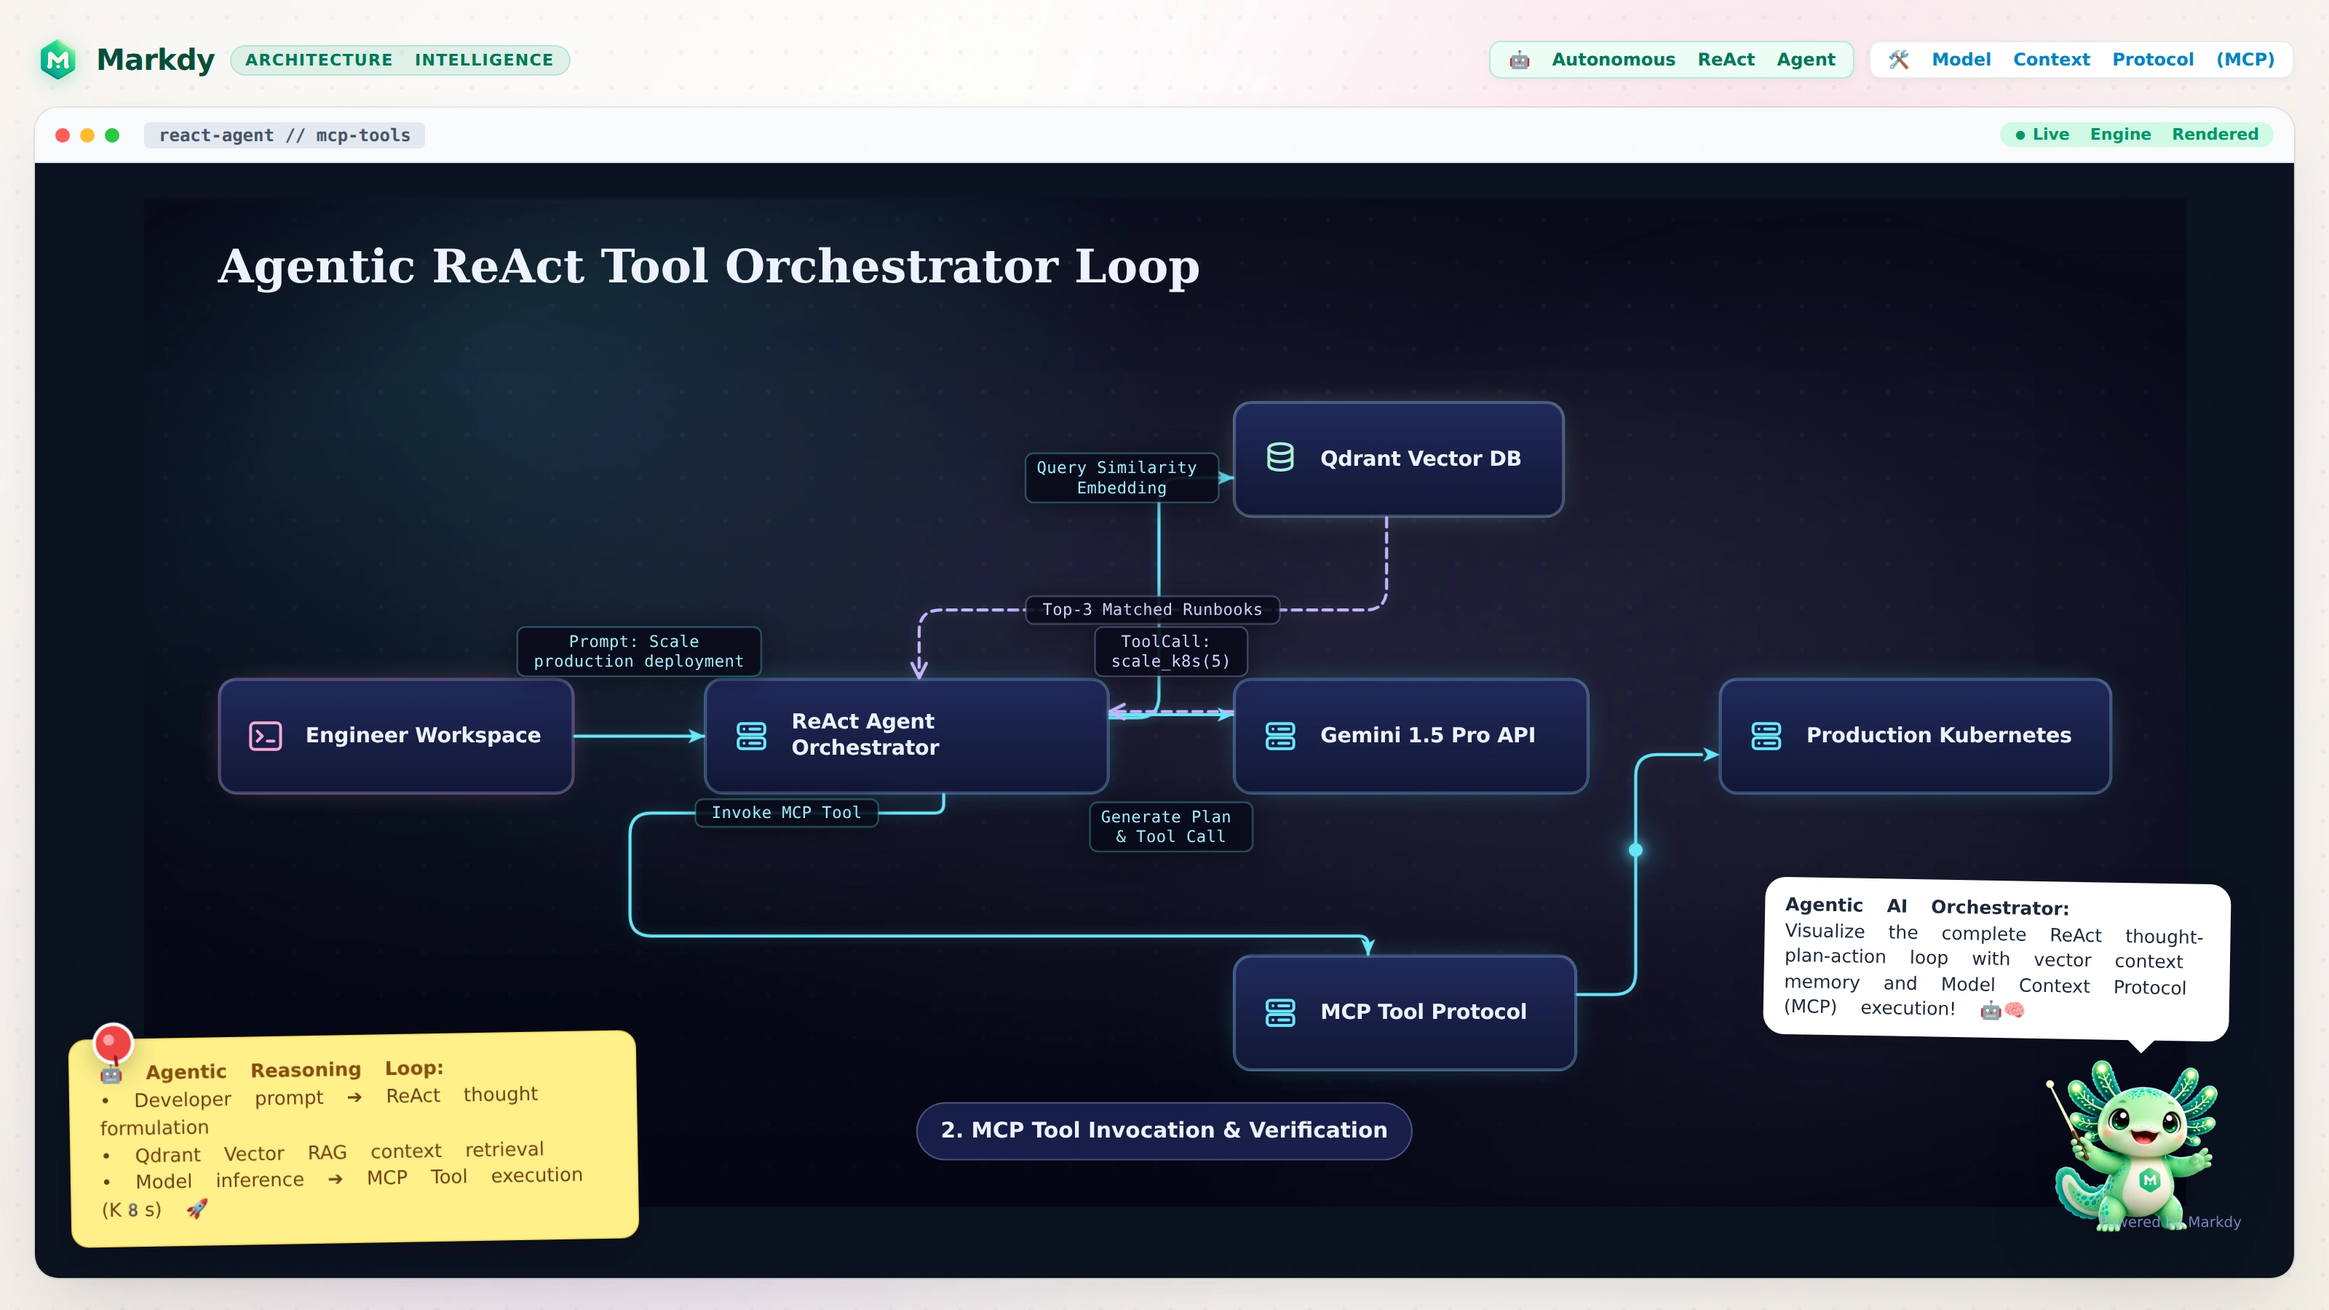
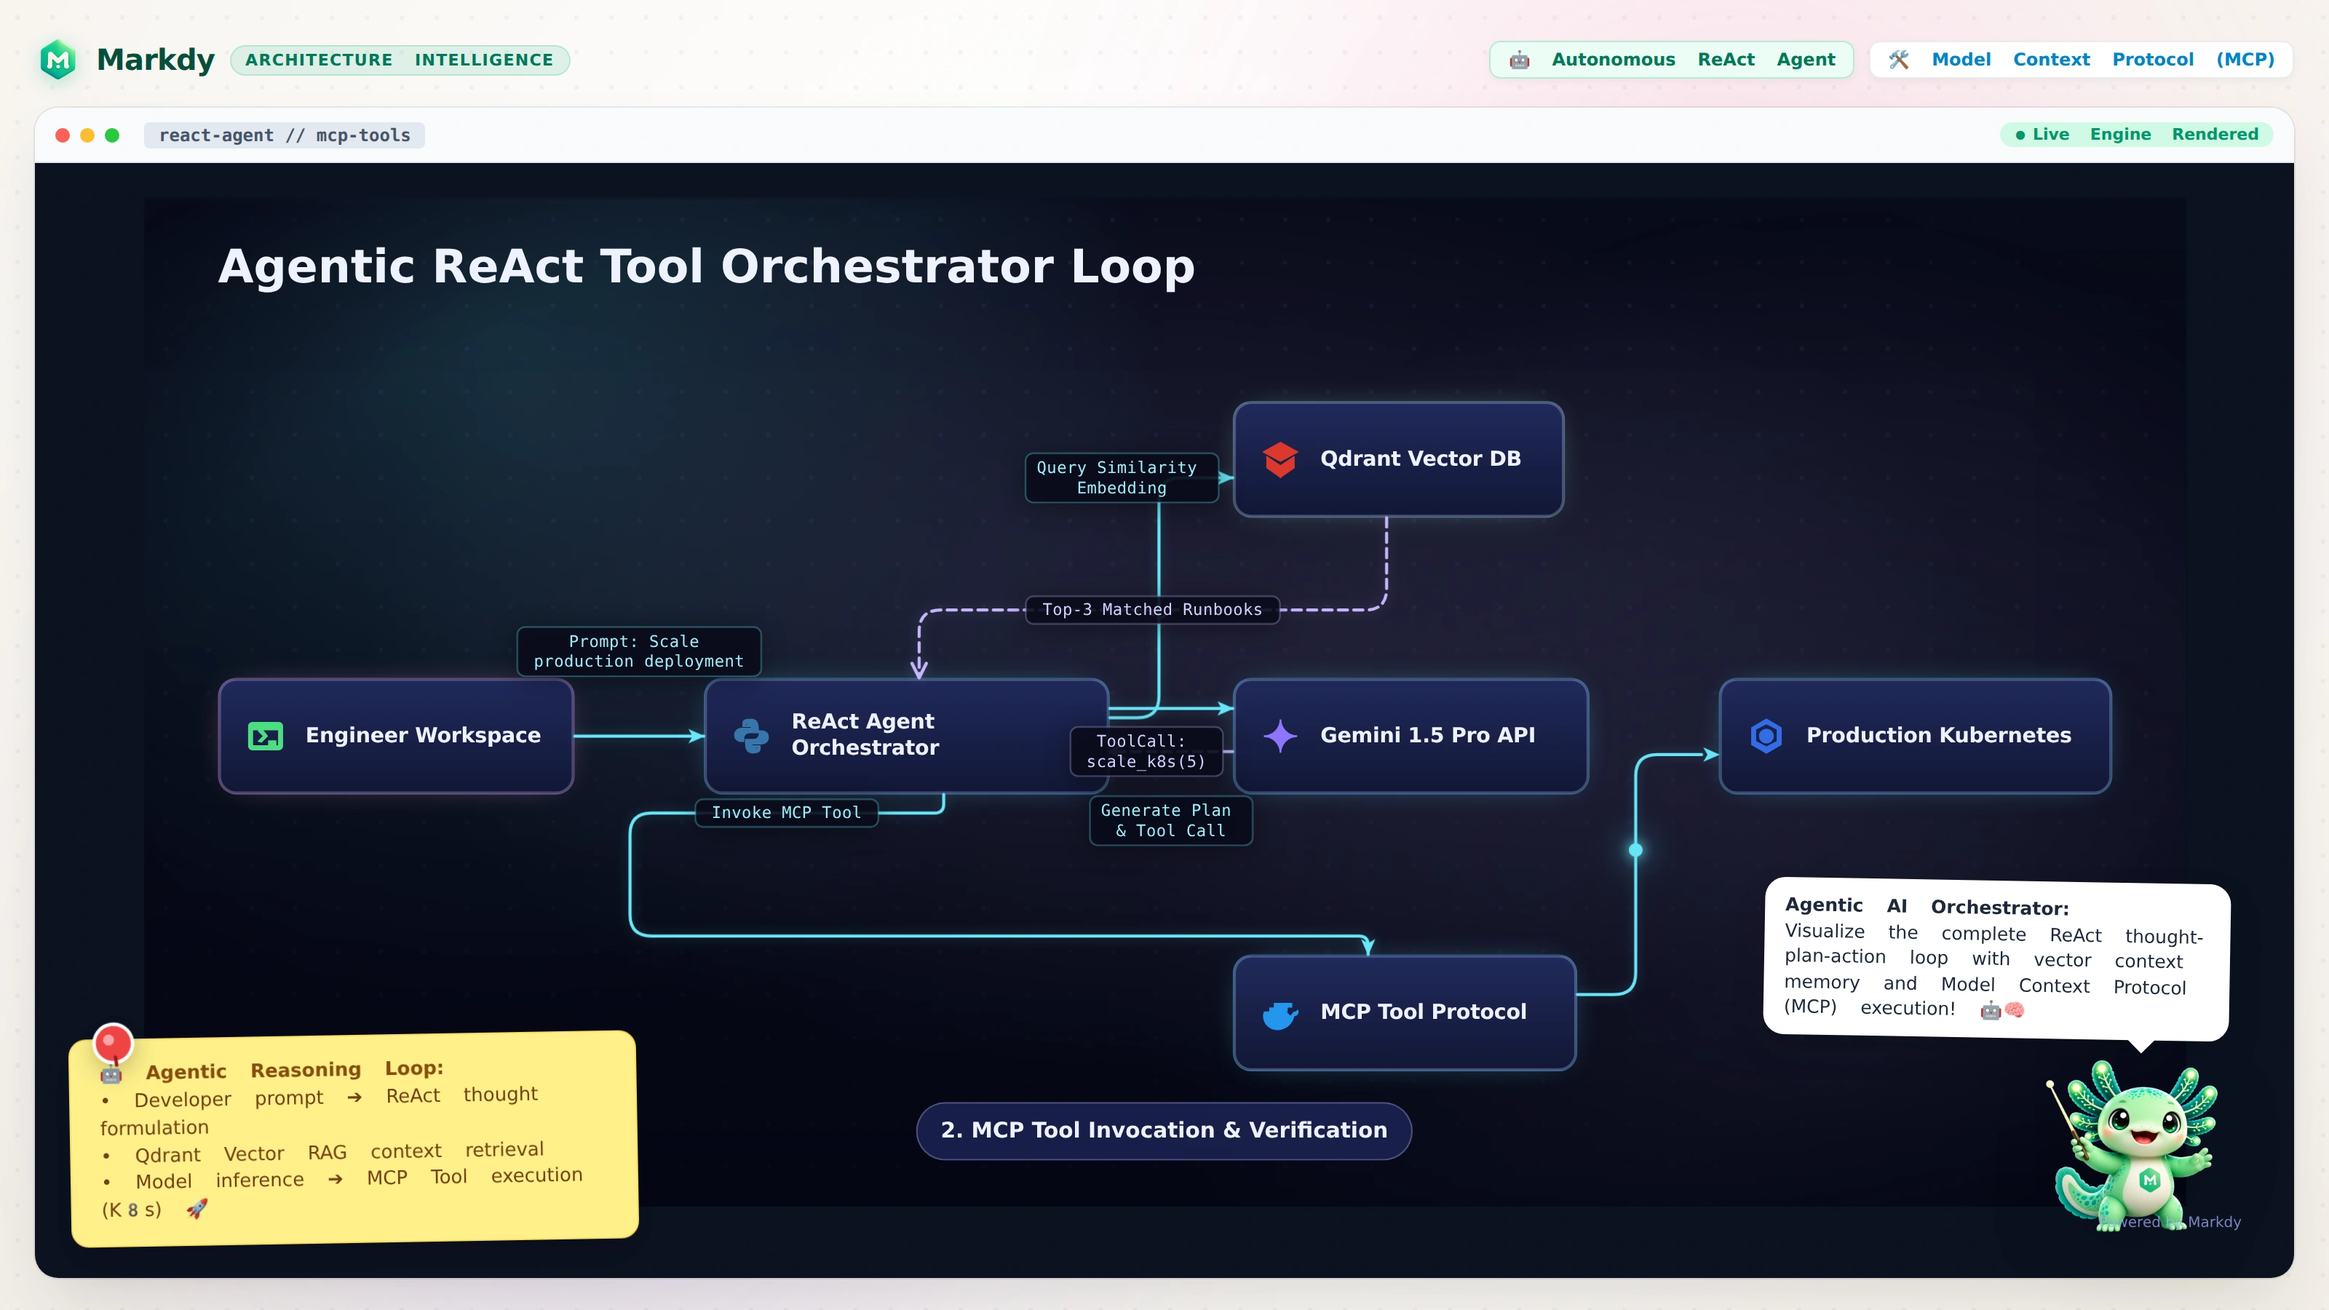
fix(renderer,router,symbols): eradicate visual collisions, wire vector symbols & fix text typography
- Unified port attachments in router allocatePortLanes for collision-free bidirectional highways
- Connected resolveVectorSymbol to DOM and SVG exporters to render native badges (K8s, Postgres, Redis, Gemini, etc.)
- Tracked labelObstacles in edges and svg-exporter to eradicate text-on-text label collisions
- Enforced strict top/bottom corridor separation between forward and return routes
- Modernized nebula theme title typography to clean sans-serif
- Fixed emoji font metrics in evidence cards and regenerated all 6 showcase cards

diff --git a/packages/renderer-dom/src/export/svg-exporter.ts b/packages/renderer-dom/src/export/svg-exporter.ts
@@ -10,6 +10,7 @@
 import {
   parseAndCompile,
   resolveTheme,
+  resolveVectorSymbol,
   type EdgeKind,
   type GroupBoundary,
   type PositionedNode,
@@ -29,6 +30,7 @@ import {
 } from "../geometry/path.js";
 import { boxRect, inflateRect, type Point, type Rect } from "../geometry/rect.js";
 import { ICON_REGISTRY, iconKeyForNode, type IconSpec } from "../nodes.js";
+import { nextEdgeLane } from "../edges.js";
 
 export interface SvgExportOptions {
   includeThemeStyles?: boolean;
@@ -502,6 +504,7 @@ export function renderPureVectorSvg(plan: RenderPlan, options: SvgExportOptions 
   if (plan.diagramType !== "sequence" && plan.edges && plan.edges.length > 0) {
     svg += `  <!-- Edge Connections -->\n  <g class="markdy-edges-layer">\n`;
     const nodeMap = new Map(plan.nodes.map((n) => [n.id, n]));
+    const laneByPair = new Map<string, number>();
 
     plan.edges.forEach((edge, index) => {
       const from = nodeMap.get(edge.from);
@@ -515,9 +518,10 @@ export function renderPureVectorSvg(plan: RenderPlan, options: SvgExportOptions 
       const color = theme.edges?.[edge.kind] || accent;
       const style = EDGE_STYLES[edge.kind] || EDGE_STYLES.request;
       const isSelfLoop = from.id === to.id;
+      const lane = nextEdgeLane(laneByPair, from, to);
       const points = isSelfLoop
         ? dedupePoints(selfLoopPath(from, bounds))
-        : dedupePoints(routeEdgePoints(from, to, routeObstacles, bounds, index));
+        : dedupePoints(routeEdgePoints(from, to, routeObstacles, bounds, lane));
 
       const d = toPathD(points, 14, existingPaths);
       existingPaths.push(points);
@@ -554,6 +558,7 @@ export function renderPureVectorSvg(plan: RenderPlan, options: SvgExportOptions 
         const boxHeight = lines.length === 1 ? 18 : lines.length * lineHeight + 6;
 
         const placement = placeFlowLabel(points, textWidth, labelObstacles, bounds, boxHeight);
+        labelObstacles.push(inflateRect(placement.rect, 4));
         const padX = 6;
         const halfW = textWidth / 2;
         const labelX = placement.x - halfW - padX;
@@ -665,10 +670,19 @@ export function renderPureVectorSvg(plan: RenderPlan, options: SvgExportOptions 
       const iconX = (node.width - circleIconSize) / 2;
       const iconY = node.height / 2 - 20;
 
+      const circleSymbolKey = typeof node.props?.icon === "string" ? node.props.icon : typeof node.props?.symbol === "string" ? node.props.symbol : undefined;
+      const circleVectorSymbol = circleSymbolKey ? resolveVectorSymbol(circleSymbolKey) : null;
+
       const rawImage = node.props?.image ?? node.props?.logo;
       if (typeof rawImage === "string" && rawImage.length > 0) {
         svg += `      <!-- Centered Custom Image -->
       <image href="${escapeXml(rawImage)}" x="${iconX}" y="${iconY}" width="${circleIconSize}" height="${circleIconSize}" preserveAspectRatio="xMidYMid meet"/>\n`;
+      } else if (circleVectorSymbol) {
+        const symColor = circleVectorSymbol.brandColor || roleColor;
+        svg += `      <!-- Centered Vector Symbol: ${escapeXml(circleVectorSymbol.name)} -->
+      <g transform="translate(${iconX}, ${iconY}) scale(${circleIconSize / 24})" fill="currentColor" color="${symColor}">
+        ${circleVectorSymbol.svgPaths}
+      </g>\n`;
       } else {
         svg += `      <!-- Centered Icon Glyph -->
       <g transform="translate(${iconX}, ${iconY}) scale(${circleIconSize / 24})" fill="none" stroke="${roleColor}" stroke-width="1.85" stroke-linecap="round" stroke-linejoin="round">
@@ -696,10 +710,19 @@ export function renderPureVectorSvg(plan: RenderPlan, options: SvgExportOptions 
       const iconX = 16;
       const iconY = (node.height - iconSize) / 2;
 
+      const cardSymbolKey = typeof node.props?.icon === "string" ? node.props.icon : typeof node.props?.symbol === "string" ? node.props.symbol : undefined;
+      const cardVectorSymbol = cardSymbolKey ? resolveVectorSymbol(cardSymbolKey) : null;
+
       const rawImage = node.props?.image ?? node.props?.logo;
       if (typeof rawImage === "string" && rawImage.length > 0) {
         svg += `      <!-- Node Custom Image -->
       <image href="${escapeXml(rawImage)}" x="${iconX}" y="${iconY}" width="${iconSize}" height="${iconSize}" preserveAspectRatio="xMidYMid meet"/>\n`;
+      } else if (cardVectorSymbol) {
+        const symColor = cardVectorSymbol.brandColor || roleColor;
+        svg += `      <!-- Native Vector Symbol: ${escapeXml(cardVectorSymbol.name)} -->
+      <g transform="translate(${iconX}, ${iconY}) scale(${iconSize / 24})" fill="currentColor" color="${symColor}">
+        ${cardVectorSymbol.svgPaths}
+      </g>\n`;
       } else {
         // Frameless Icon Glyph
         svg += `      <!-- Frameless Icon Glyph -->

diff --git a/packages/core/src/router.ts b/packages/core/src/router.ts
@@ -302,7 +302,8 @@ export function routeOrthogonalEdge(
 
 /**
  * Dynamic Port Multiplexer:
- * Allocates balanced port lanes for multiple edges attaching to the same node boundary.
+ * Allocates balanced, collision-free port lanes for multiple edges attaching to the same node boundary.
+ * Seamlessly handles multi-edge fan-in/fan-out and bidirectional request/response pairs without overlapping.
  */
 export function allocatePortLanes<T extends { from: string; to: string; id?: string }>(
   edges: T[],
@@ -310,10 +311,14 @@ export function allocatePortLanes<T extends { from: string; to: string; id?: str
 ): Map<T, { sourceLane?: PortLane; targetLane?: PortLane }> {
   const result = new Map<T, { sourceLane?: PortLane; targetLane?: PortLane }>();
 
-  // Group outgoing edges by (fromNodeId, sourcePort)
-  const outGroups = new Map<string, { edge: T; targetCenterY: number; targetCenterX: number }[]>();
-  // Group incoming edges by (toNodeId, targetPort)
-  const inGroups = new Map<string, { edge: T; sourceCenterY: number; sourceCenterX: number }[]>();
+  // Group ALL edge connections (source and target attachments) by (nodeId:port)
+  type PortAttachment = {
+    edge: T;
+    role: "source" | "target";
+    otherCenterY: number;
+    otherCenterX: number;
+  };
+  const portGroups = new Map<string, PortAttachment[]>();
 
   for (const edge of edges) {
     if (edge.from === edge.to) continue;
@@ -328,31 +333,58 @@ export function allocatePortLanes<T extends { from: string; to: string; id?: str
     const tgtCenter = { x: tBox.x + tBox.width / 2, y: tBox.y + tBox.height / 2 };
     const srcCenter = { x: sBox.x + sBox.width / 2, y: sBox.y + sBox.height / 2 };
 
-    if (!outGroups.has(sKey)) outGroups.set(sKey, []);
-    outGroups.get(sKey)!.push({ edge, targetCenterY: tgtCenter.y, targetCenterX: tgtCenter.x });
+    if (!portGroups.has(sKey)) portGroups.set(sKey, []);
+    portGroups.get(sKey)!.push({
+      edge,
+      role: "source",
+      otherCenterY: tgtCenter.y,
+      otherCenterX: tgtCenter.x,
+    });
 
-    if (!inGroups.has(tKey)) inGroups.set(tKey, []);
-    inGroups.get(tKey)!.push({ edge, sourceCenterY: srcCenter.y, sourceCenterX: srcCenter.x });
-  }
-
-  // Sort and assign lanes for outgoing ports
-  for (const [key, list] of outGroups.entries()) {
-    const isVertical = key.endsWith(":left") || key.endsWith(":right");
-    list.sort((a, b) => (isVertical ? a.targetCenterY - b.targetCenterY : a.targetCenterX - b.targetCenterX));
-    list.forEach((item, index) => {
-      const existing = result.get(item.edge) || {};
-      existing.sourceLane = { index, total: list.length };
-      result.set(item.edge, existing);
+    if (!portGroups.has(tKey)) portGroups.set(tKey, []);
+    portGroups.get(tKey)!.push({
+      edge,
+      role: "target",
+      otherCenterY: srcCenter.y,
+      otherCenterX: srcCenter.x,
     });
   }
 
-  // Sort and assign lanes for incoming ports
-  for (const [key, list] of inGroups.entries()) {
+  // Sort attachments and assign balanced lanes across each port
+  for (const [key, list] of portGroups.entries()) {
+    if (list.length <= 1) continue;
+
     const isVertical = key.endsWith(":left") || key.endsWith(":right");
-    list.sort((a, b) => (isVertical ? a.sourceCenterY - b.sourceCenterY : a.sourceCenterX - b.sourceCenterX));
+    list.sort((a, b) => {
+      if (isVertical) {
+        if (Math.abs(a.otherCenterY - b.otherCenterY) > 1) {
+          return a.otherCenterY - b.otherCenterY;
+        }
+      } else {
+        if (Math.abs(a.otherCenterX - b.otherCenterX) > 1) {
+          return a.otherCenterX - b.otherCenterX;
+        }
+      }
+      // Canonical tie-breaker for bidirectional pairs: keep forward and return lanes parallel
+      const aMin = a.edge.from < a.edge.to ? a.edge.from : a.edge.to;
+      const aMax = a.edge.from < a.edge.to ? a.edge.to : a.edge.from;
+      const bMin = b.edge.from < b.edge.to ? b.edge.from : b.edge.to;
+      const bMax = b.edge.from < b.edge.to ? b.edge.to : b.edge.from;
+      if (aMin !== bMin || aMax !== bMax) {
+        return (a.edge.id || "").localeCompare(b.edge.id || "");
+      }
+      const aDir = a.edge.from < a.edge.to ? 0 : 1;
+      const bDir = b.edge.from < b.edge.to ? 0 : 1;
+      return aDir - bDir;
+    });
+
     list.forEach((item, index) => {
       const existing = result.get(item.edge) || {};
-      existing.targetLane = { index, total: list.length };
+      if (item.role === "source") {
+        existing.sourceLane = { index, total: list.length };
+      } else {
+        existing.targetLane = { index, total: list.length };
+      }
       result.set(item.edge, existing);
     });
   }

diff --git a/packages/renderer-dom/src/nodes.ts b/packages/renderer-dom/src/nodes.ts
@@ -1,4 +1,4 @@
-import type { PositionedNode, ThemeTokens } from "@markdy/core";
+import { resolveVectorSymbol, type PositionedNode, type ThemeTokens } from "@markdy/core";
 
 const STYLE_ID = "markdy-diagram-node-styles";
 
@@ -685,6 +685,7 @@ export const ICON_REGISTRY: Readonly<Record<string, IconSpec>> = Object.freeze(I
 export function iconKeyForNode(node: PositionedNode): string {
   const override = typeof node.props?.icon === "string" ? node.props.icon.toLowerCase() : undefined;
   if (override && ICONS[override]) return override;
+  if (override && resolveVectorSymbol(override)) return override;
   if (node.kind === "api_gateway" || node.kind === "gateway" || node.kind === "load_balancer" || node.kind === "ingress") return "gateway";
   if (node.kind === "db" || node.kind === "database" || node.kind === "sql" || node.kind === "nosql" || node.kind === "warehouse") return "database";
   if (node.kind === "bucket" || node.kind === "object_store" || node.kind === "blob" || node.kind === "volume" || node.kind === "disk") return "storage";
@@ -764,6 +765,22 @@ function createNodeMediaEl(doc: Document, node: PositionedNode, assets?: Record<
       appendGlyph(doc, wrap, ICONS[iconKeyForNode(node)] ?? ICONS.service);
     });
     wrap.appendChild(img);
+    return wrap;
+  }
+
+  const symbolKey = typeof node.props?.icon === "string" ? node.props.icon : typeof node.props?.symbol === "string" ? node.props.symbol : undefined;
+  const vectorSymbol = symbolKey ? resolveVectorSymbol(symbolKey) : null;
+  if (vectorSymbol) {
+    wrap.dataset.vectorSymbol = vectorSymbol.name;
+    const svg = doc.createElementNS("http://www.w3.org/2000/svg", "svg");
+    svg.setAttribute("viewBox", vectorSymbol.viewBox);
+    svg.setAttribute("width", "26");
+    svg.setAttribute("height", "26");
+    if (vectorSymbol.brandColor) {
+      svg.style.color = vectorSymbol.brandColor;
+    }
+    svg.innerHTML = vectorSymbol.svgPaths;
+    wrap.appendChild(svg);
     return wrap;
   }
 

diff --git a/packages/renderer-dom/src/geometry/path.ts b/packages/renderer-dom/src/geometry/path.ts
@@ -642,7 +642,7 @@ export function routeOrthogonal(
       sY = clamp(sourceCenter.y + dirSign * 12, sourceRect.y1 + 10, sourceRect.y2 - 10);
       tY = clamp(targetCenter.y - dirSign * 12, targetRect.y1 + 10, targetRect.y2 - 10);
     } else {
-      const fwdShift = lane > 0 ? (lane % 2 === 1 ? 14 : -14) : 0;
+      const fwdShift = lane > 0 ? (lane % 2 === 1 ? -10 : -18) : 0;
       sY = clamp(sourceCenter.y + fwdShift, sourceRect.y1 + 10, sourceRect.y2 - 10);
       tY = clamp(targetCenter.y + fwdShift, targetRect.y1 + 10, targetRect.y2 - 10);
     }
@@ -716,7 +716,7 @@ export function routeOrthogonal(
       sY = clamp(sourceCenter.y + dirSign * 12, sourceRect.y1 + 10, sourceRect.y2 - 10);
       tY = clamp(targetCenter.y - dirSign * 12, targetRect.y1 + 10, targetRect.y2 - 10);
     } else {
-      const retShift = lane > 0 ? (lane % 2 === 1 ? -16 : 16) : 14;
+      const retShift = lane > 0 ? (lane % 2 === 1 ? 10 : 18) : 10;
       sY = clamp(sourceCenter.y + retShift, sourceRect.y1 + 10, sourceRect.y2 - 10);
       tY = clamp(targetCenter.y + retShift, targetRect.y1 + 10, targetRect.y2 - 10);
     }

diff --git a/packages/core/tests/router-dynamic-ports.test.ts b/packages/core/tests/router-dynamic-ports.test.ts
@@ -69,4 +69,26 @@ describe("Router & Dynamic Port Multiplexer", () => {
     }
     expect(routed.svgPathData).toContain("Q");
   });
+
+  it("allocates distinct parallel lanes for bidirectional request/response pairs", () => {
+    const edges = [
+      { from: "a", to: "b", id: "req" },
+      { from: "b", to: "a", id: "res" },
+    ];
+    const boxes = { a: boxA, b: boxB };
+    const laneMap = allocatePortLanes(edges, boxes);
+
+    const reqLanes = laneMap.get(edges[0])!;
+    const resLanes = laneMap.get(edges[1])!;
+
+    expect(reqLanes.sourceLane?.total).toBe(2);
+    expect(resLanes.targetLane?.total).toBe(2);
+    // Request forward and response return must have different indices (parallel, no collision)
+    expect(reqLanes.sourceLane?.index).not.toBe(resLanes.targetLane?.index);
+    expect(reqLanes.targetLane?.index).not.toBe(resLanes.sourceLane?.index);
+
+    const reqStart = getBoxPortPosition(boxA, "right", reqLanes.sourceLane);
+    const resEnd = getBoxPortPosition(boxA, "right", resLanes.targetLane);
+    expect(reqStart.y).not.toBe(resEnd.y);
+  });
 });

diff --git a/packages/renderer-dom/src/edges.ts b/packages/renderer-dom/src/edges.ts
@@ -370,6 +370,7 @@ export function createEdgeRuntime(
 
     const placement = placeFlowLabel(points, textWidth, labelObstacles, bounds, boxHeight);
     labelRect = placement.rect;
+    labelObstacles.push(inflateRect(labelRect, 4));
     const plate = document.createElementNS("http://www.w3.org/2000/svg", "rect");
     const padX = 6;
     const halfW = textWidth / 2;
@@ -479,7 +480,7 @@ function translucentColor(color: string, alpha = "aa"): string {
   return `color-mix(in srgb, ${value} 67%, transparent)`;
 }
 
-function nextEdgeLane(
+export function nextEdgeLane(
   lanes: Map<string, number>,
   from: PositionedNode | string,
   to: PositionedNode | string,

diff --git a/packages/core/src/themes.ts b/packages/core/src/themes.ts
@@ -184,7 +184,7 @@ export const THEMES: Record<string, ThemeTokens> = {
       dependency: "#818cf8",
     },
     fonts: {
-      title: "Georgia, Times New Roman, serif",
+      title: "ui-sans-serif, system-ui, -apple-system, BlinkMacSystemFont, 'Segoe UI', Roboto, Inter, sans-serif",
       nodeName: "ui-sans-serif, system-ui, sans-serif",
       mono: "ui-monospace, SFMono-Regular, Menlo, monospace",
     },
